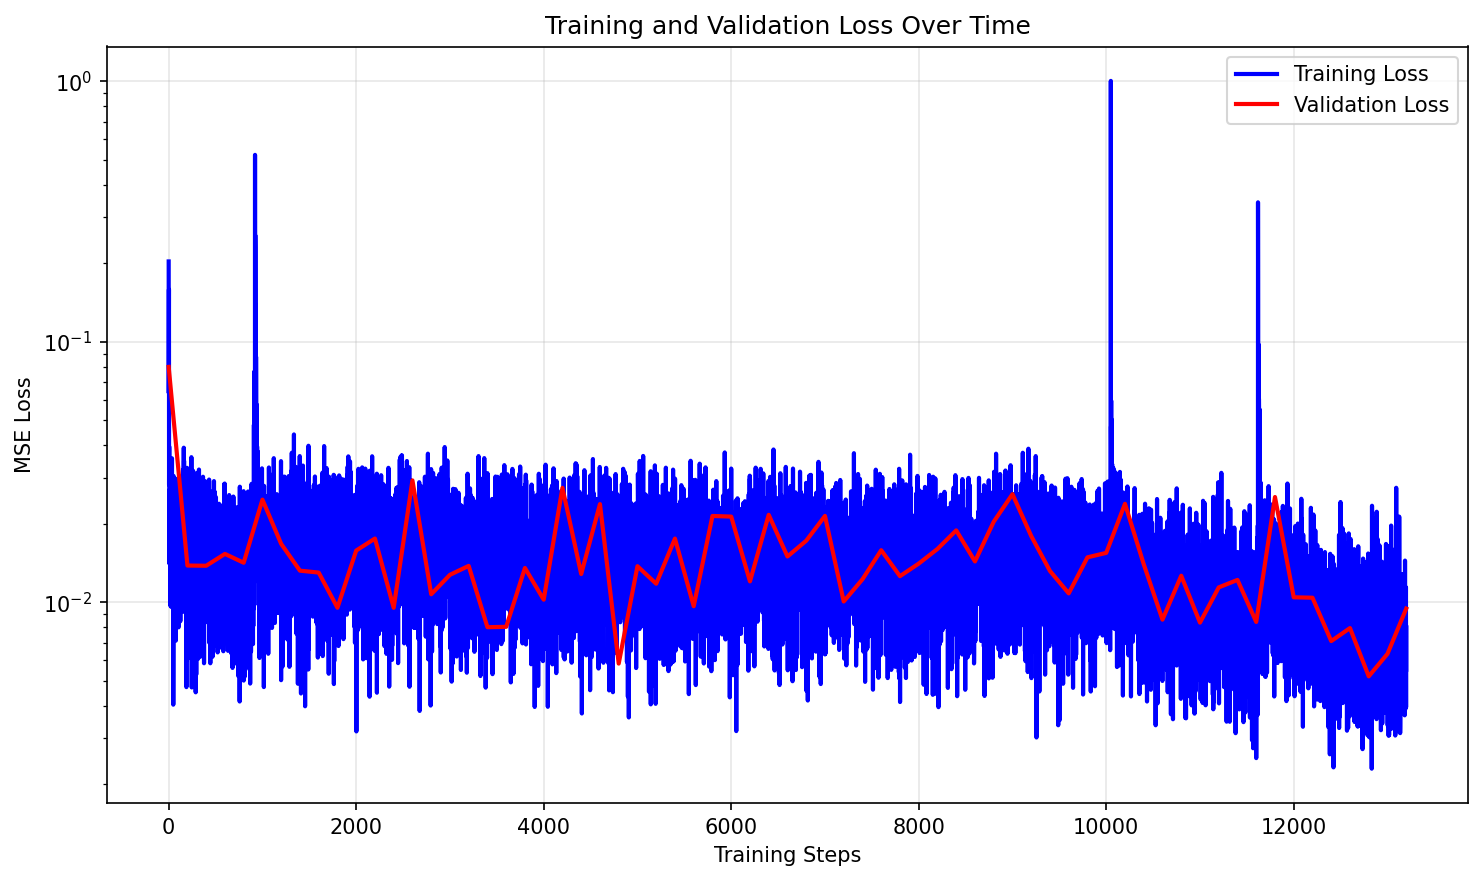
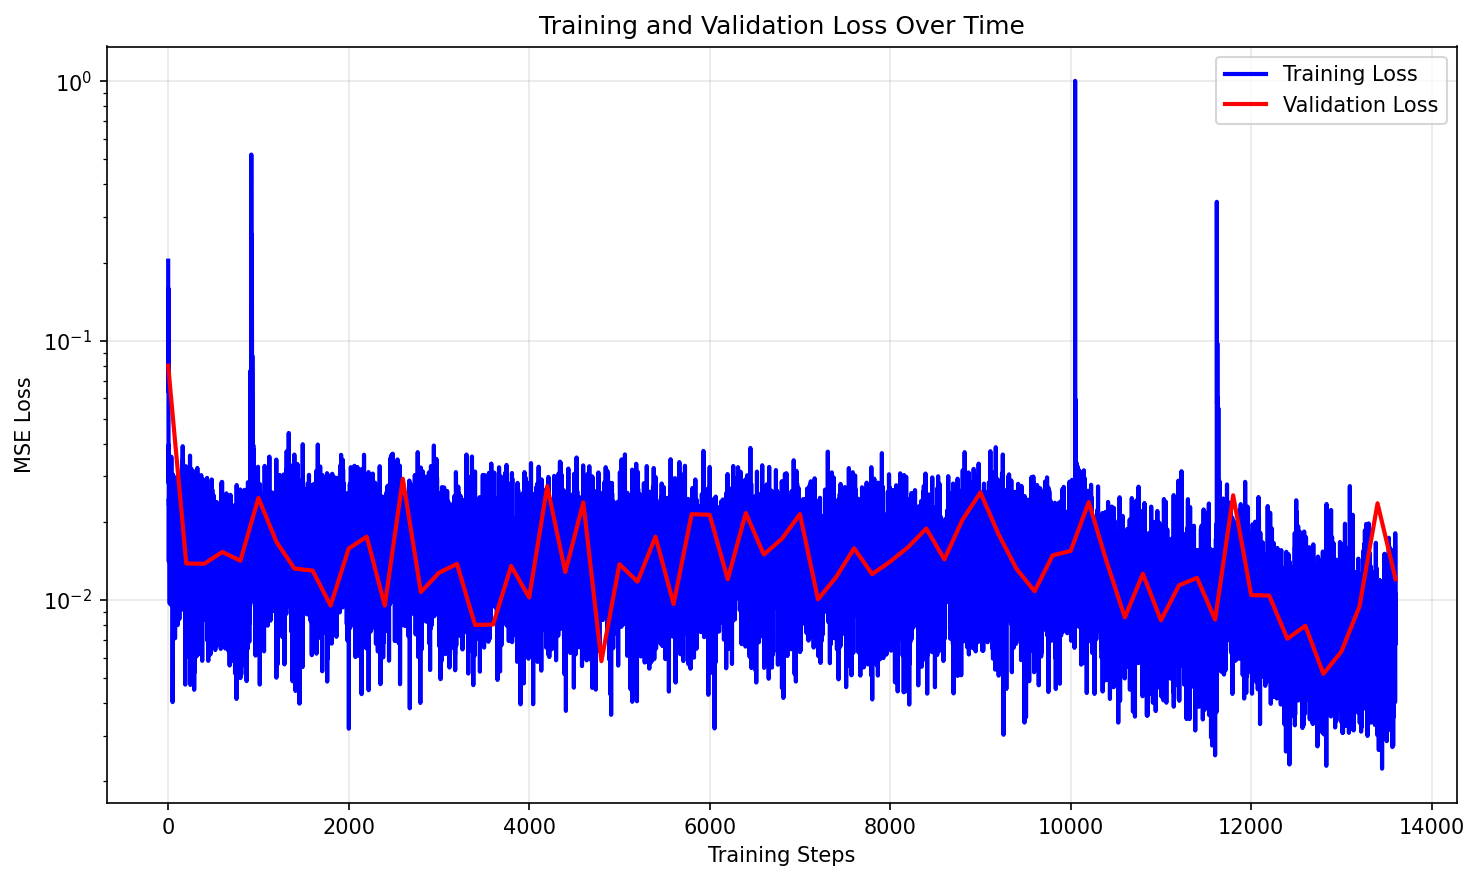
adding the advanced loss

diff --git a/displacement_regressor_train_fixed.py b/displacement_regressor_train_fixed.py
@@ -7,6 +7,8 @@ python topodiff/displacement_regressor_train_fixed.py --num_samples 20000 --val_
 
 python topodiff/displacement_regressor_train_fixed.py --num_samples 20000 --val_num_samples 1500 --iterations 300000 --batch_size 32 --log_interval 200 --save_interval 200 --displacement_normalization "robust_percentile"
 
+python topodiff/displacement_regressor_train_fixed.py --num_samples 20000 --val_num_samples 1500 --iterations 300000 --batch_size 32 --log_interval 200 --save_interval 200 --displacement_normalization "robust_percentile" --advanced_loss True
+
 
 
 """
